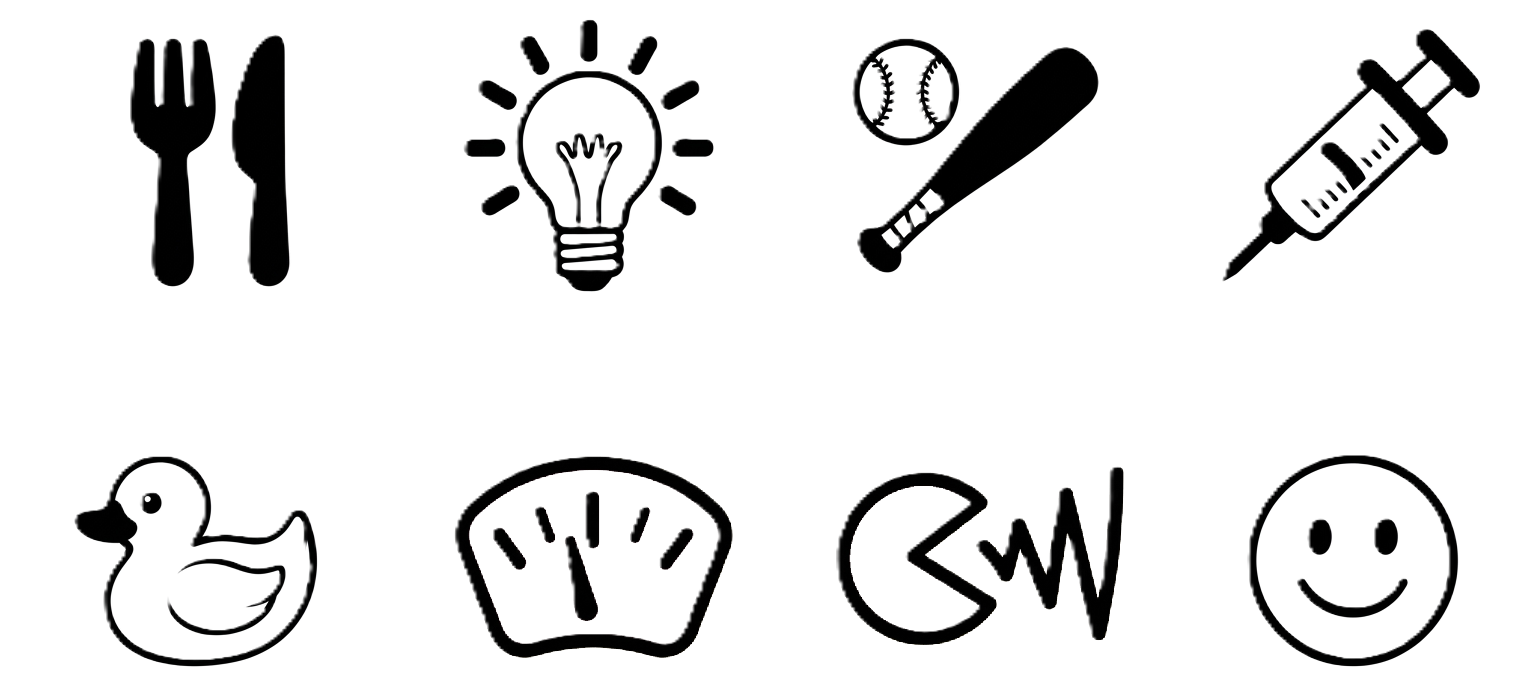
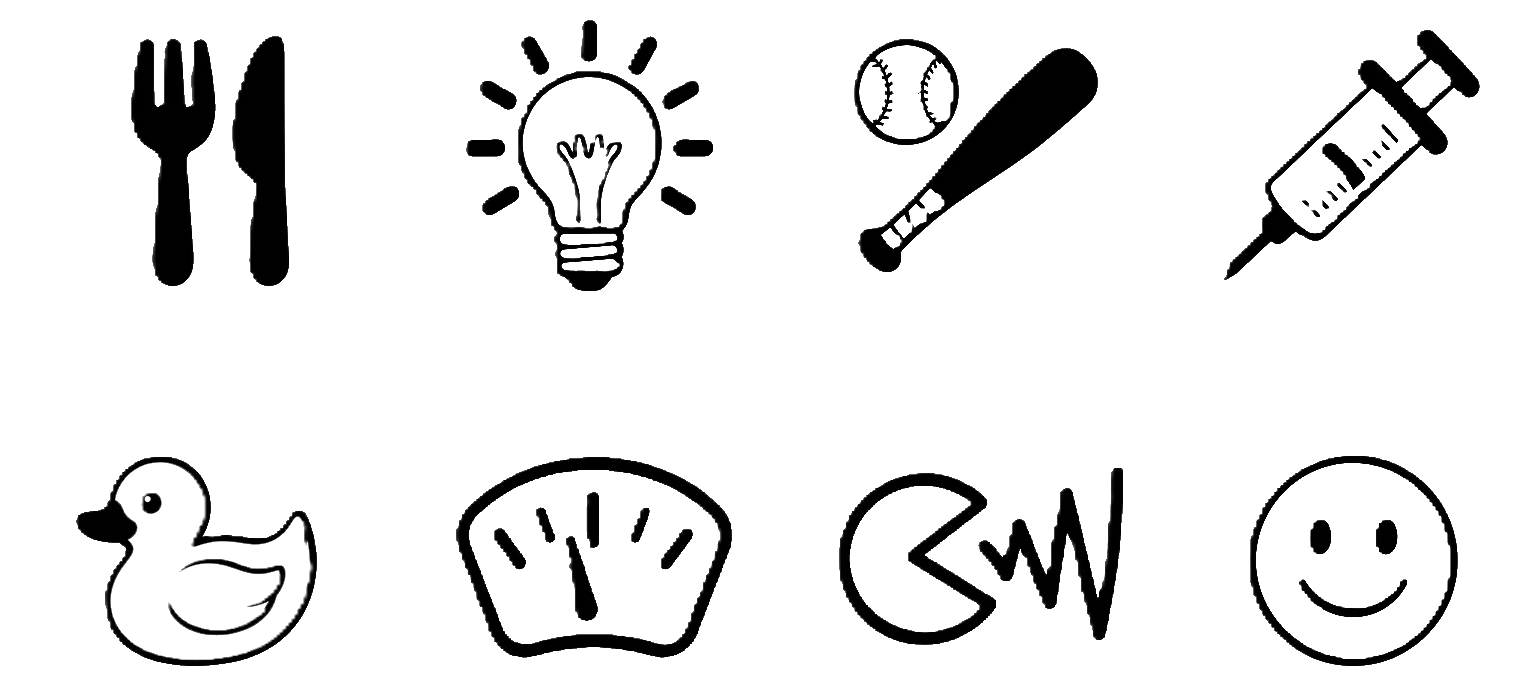
박스 제거된 메뉴 PNG 반영 및 clip-path 제거

diff --git a/index.html b/index.html
@@ -406,7 +406,7 @@ body.stealth .stealthBar{display:flex !important}
 .tamaCanvasWrap{position:relative;background:#c5d4a8;border-radius:4px;padding:6px;border:3px solid #6a7a4a;box-shadow:0 0 0 6px #4a5a30,0 16px 40px rgba(0,0,0,.6),inset 0 1px 0 rgba(255,255,255,.25)}
 .tamaCanvasWrap canvas{display:block;image-rendering:pixelated;image-rendering:crisp-edges;width:300px;height:300px}
 .tamaIconOverlay{position:absolute;left:6px;top:6px;width:300px;height:300px;pointer-events:none;display:none;overflow:hidden}
-.tamaIconCell{position:absolute;width:60px;height:60px;background-image:url('tamagoch_menu.png');background-size:240px 120px;background-repeat:no-repeat;mix-blend-mode:multiply;clip-path:inset(10%)}
+.tamaIconCell{position:absolute;width:60px;height:60px;background-image:url('tamagoch_menu.png');background-size:240px 120px;background-repeat:no-repeat;mix-blend-mode:multiply}
 .tamaInfo{display:none}
 .tamaStats{display:none}
 /* 3버튼 */
